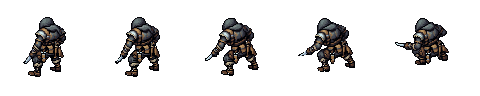
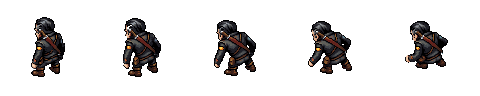
Nowy Szczurek i szabrownicy z PixelLab
- Szczurek: nowa postać (człowiek, bez głowy szczura i ogona) - szczurza twarz: spiczasty nos,
  wystające przednie zęby w chytrym uśmiechu, małe oczka, wąsik; nowe obroty, portret,
  animacje chodu (8 kier.), skradania i kucania; strzał / hakowanie / wytrych z obrotu
  (wyczerpana pula generacji PixelLab)
- Szabrownicy (raider_thug, gunner, burner, psycho, sniper, chief): postacie PixelLab
  64x64 w 8 obrotach + portrety (bez herszta); enemyUnitLook ustawia sprite, gdy szablon
  ma katalog src/assets/units/<templateId>/
- tools/pixellab_chars.py: tworzenie postaci (create-character-v3) i portretów, id w pixellab_chars.json

Claude-Session: https://claude.ai/code/session_01SGj2dTAnsPKDXj1yZDCTmQ

diff --git a/src/scenes/iso/UnitLooks.ts b/src/scenes/iso/UnitLooks.ts
@@ -8,7 +8,7 @@ import { mix, shade } from './Pixel';
 import { RECRUITS } from '../../core/data/recruits';
 import { hashStr } from './Pixel';
 import { addHiRes } from './HiRes';
-import { hasSprite, paintSpriteSheet, spriteIdOf, type SheetAnim } from './SpriteUnits';
+import { enemySpriteId, hasSprite, paintSpriteSheet, spriteIdOf, type SheetAnim } from './SpriteUnits';
 import {
   ANIMS, ANIM_ORDER, type AncestryLook, type BodyBuild, type HeadKind, LOOK_RAIDER, LOOK_SOLDIER, UNIT_FH, UNIT_FOOT_X, UNIT_FOOT_Y, UNIT_FW,
   type UnitLook, type UnitSheet, type WeaponKind, paintUnitSheet,
@@ -311,6 +311,9 @@ export function enemyUnitLook(templateId: string | undefined | null, look?: Enem
   if (mask) result.mask = true;
   if (mutation) result.mutation = true;
   if (cyber) { result.cyber = true; result.eye = result.eye ?? 0xff3a2a; }
+  // gotowa postać PixelLab dla szablonu (szabrownicy: src/assets/units/raider_*/) zamiast klatek malowanych kodem
+  const sprite = enemySpriteId(templateId);
+  if (sprite) result.sprite = sprite;
   return result;
 }
 

diff --git a/src/scenes/iso/SpriteUnits.ts b/src/scenes/iso/SpriteUnits.ts
@@ -65,6 +65,11 @@ export function spriteIdOf(src: { recruitId?: string; id?: string } | null | und
   return id && UNITS.has(id) ? id : null;
 }
 
+/** Id sprite'a wroga: szablon (EnemyId, np. raider_thug) z katalogiem src/assets/units/<templateId>/. */
+export function enemySpriteId(templateId: string | null | undefined): string | null {
+  return templateId && UNITS.has(templateId) ? templateId : null;
+}
+
 /** Czy postać ma wczytany sprite (obrazy są w menedżerze tekstur). */
 export function hasSprite(scene: Phaser.Scene, id: string | null): id is string {
   return !!id && scene.textures.exists(spriteTexKey(id, 'south-east')) && scene.textures.exists(spriteTexKey(id, 'north-east'));

diff --git a/tools/pixellab_chars.py b/tools/pixellab_chars.py
@@ -1,0 +1,57 @@
+# Tworzenie postaci PixelLab (create-character-v3: 64x64, 8 obrotów, szkielet 'mannequin' do animacji) i portretów.
+# Użycie: python3 tools/pixellab_chars.py create <id> ...   - wysyła postacie z PROMPTS (zapis id w PL_CHARS)
+#         python3 tools/pixellab_chars.py fetch <id> ...    - pobiera obroty do src/assets/units/<id>/ i portret 64 px
+import json,sys,os,re,base64,io,subprocess,time,zipfile
+from PIL import Image
+STYLE=', gritty post-apocalyptic wasteland, rusty scrap and worn leather, muted desaturated dust-brown palette, full body, human'
+PROMPTS={
+ 'szczurek':'skinny wiry ordinary human man thief, weaselly shifty human face: very long thin sharp pointed nose, two large protruding front teeth showing in a sly crooked grin, small beady close-set eyes, narrow chin, thin pencil mustache, greasy slicked-back black hair, large human ears, pale stubbled skin, bare head with face clearly visible; hunched sneaky posture, patched dark leather jacket, knife in reverse grip, lockpicks and many small loot pouches on belt, dark grey and brown clothes with orange accent',
+ 'raider_thug':'bulky post-apocalyptic raider thug, bald head with scars, red cloth bandana over mouth, spiked scrap shoulder pad, ragged leather vest over bare arms, big wooden club studded with nails, chains on belt, heavy boots',
+ 'raider_gunner':'lean post-apocalyptic raider gunner, scrap metal welder goggles on forehead, dirty gas mask hanging on neck, makeshift rusty carbine rifle held ready, ammo bandolier across chest, torn brown duster coat, red armband',
+ 'raider_burner':'crazed post-apocalyptic raider arsonist, scorched gas mask with round lenses, homemade flamethrower with pilot flame, fuel tank strapped on back with hoses, burnt patched overalls, fire-axe on hip, soot stains',
+ 'raider_psycho':'shirtless post-apocalyptic raider psycho berserker, wild eyes, painted white skull face paint, red mohawk, war paint and tattoos, spiked leather wristbands, huge rusty cleaver in hand, torn trousers, frenzied stance',
+ 'raider_sniper':'post-apocalyptic raider sniper, hooded tattered camouflage ghillie poncho of rags, cloth face wrap with scrap scope monocle, long bolt-action hunting rifle with makeshift scope, knife on chest strap, desert sand and olive colors',
+ 'raider_chief':'imposing post-apocalyptic raider warlord chief, heavy armor made of car hood plates and tire rubber, horned scrap metal helmet with skull motif, red cape of torn cloth, big battle axe, revolver in belt holster, trophy teeth necklace',
+}
+ROOT=os.path.join(os.path.dirname(os.path.abspath(__file__)),'..','src','assets')
+DB=os.environ.get('PL_CHARS','/tmp/pixellab_chars.json')
+db=json.load(open(DB)) if os.path.exists(DB) else {}
+def save(): json.dump(db,open(DB,'w'),indent=1)
+def api(path,body=None,method=None):
+  cmd=['curl','-sS','https://api.pixellab.ai/v2'+path]
+  if body is not None: cmd+=['-X','POST','-H','Content-Type: application/json','-d',json.dumps(body)]
+  return json.loads(subprocess.check_output(cmd))
+def wait(job):
+  while True:
+    r=api('/background-jobs/'+job)
+    if r.get('status')=='completed': return r
+    if r.get('status') not in ('processing','pending','queued'): raise SystemExit(f'job {job}: {str(r)[:300]}')
+    time.sleep(10)
+cmd,ids=sys.argv[1],sys.argv[2:]
+VAR=os.environ.get('VAR','')
+if cmd=='create':
+  for uid in ids:
+    body={'description':PROMPTS[uid]+STYLE,'name':'postapo_'+uid+'_v2'+VAR,'image_size':{'width':64,'height':64},'view':'high top-down',
+          'template_id':'mannequin','outline':'single color black outline','detail':'high detail'}
+    r=api('/create-character-v3',body); print(uid,json.dumps(r)[:300])
+    db[uid+VAR]={'character_id':r.get('character_id'),'job':r.get('background_job_id')}; save()
+elif cmd=='fetch':
+  for uid in ids:
+    c=db[uid]
+    if c.get('job'): wait(c['job'])
+    while True:
+      ch=api('/characters/'+c['character_id'])
+      if ch.get('status')=='completed' and ch.get('rotation_urls'): break
+      time.sleep(10)
+    d=f'{ROOT}/units/{uid}'; os.makedirs(d,exist_ok=True)
+    z=zipfile.ZipFile(io.BytesIO(subprocess.check_output(['curl','-sS','https://api.pixellab.ai/v2/characters/'+c['character_id']+'/zip'])))
+    for n in z.namelist():
+      m=re.match(r'[^/]+/rotations/([a-z-]+)\.png$',n)
+      if m: Image.open(io.BytesIO(z.read(n))).convert('RGBA').save(f'{d}/{m.group(1)}.png',optimize=True)
+    src=open(f'{d}/south.png','rb').read()
+    r=api('/portrait-character-pro',{'direction':'character_to_portrait','image':{'type':'base64','base64':base64.b64encode(src).decode()},'view':'high top-down','result_size':64})
+    j=r.get('background_job_id') or r.get('job_id')
+    if not j: print('portrait ERR',uid,str(r)[:300]); continue
+    pr=wait(j)['last_response']; im=(pr.get('images') or [pr.get('image')])[0]
+    Image.open(io.BytesIO(base64.b64decode(im['base64']))).convert('RGBA').save(f'{ROOT}/portraits/{uid}.png',optimize=True)
+    print('saved',uid,c['character_id'])

diff --git a/tools/pixellab_anims.py b/tools/pixellab_anims.py
@@ -6,7 +6,7 @@ from PIL import Image
 CH={'zgrzyt':'7ffc9972-074c-4530-bab3-47ff42982bc1','szept':'edd81d76-1094-4786-a008-2f11a5ab5d79','iskra':'33ad4274-57fb-4cf0-9f19-df7228bfd66f',
 'lut':'ef6b6fd6-d50e-4219-9c3c-a3f91ffb4073','zero':'723b7ae4-be0b-4011-b95d-3cfa0f0f6f5a','grzmot':'270389f8-d7c9-45a0-9414-86f05ac77b17',
 'aksamit':'8dc2cc7d-b33f-437e-960d-d878862fa6da','retorta':'5046ad43-aaab-4093-978c-901841ca4c92','mur':'76cfdb9c-d3d9-4d3c-b5af-fd2946c85e07',
-'kruk':'dc73d50b-4df9-44c3-9104-69960914a639','bizon':'5cc3213b-9b4a-4ead-a117-b19c7f6171fb','szczurek':'b572bcbc-7453-410b-a0f6-0f78d3dc8af6',
+'kruk':'dc73d50b-4df9-44c3-9104-69960914a639','bizon':'5cc3213b-9b4a-4ead-a117-b19c7f6171fb','szczurek':'c11c7eb6-508d-4e38-afad-d2fcc19e13f7',
 'igla':'bd785f0d-3c25-4b02-8dff-2e90f0cecd94','sowa':'0b0a27d6-274a-49ba-a69e-3f2879d65b89','hak':'78e6a020-648e-48cb-8b3c-da7f88dba7f7',
 'plesn':'f1094a30-9592-41b6-b476-944d0425110d'}
 ALL8=['south','south-east','east','north-east','north','north-west','west','south-west']
